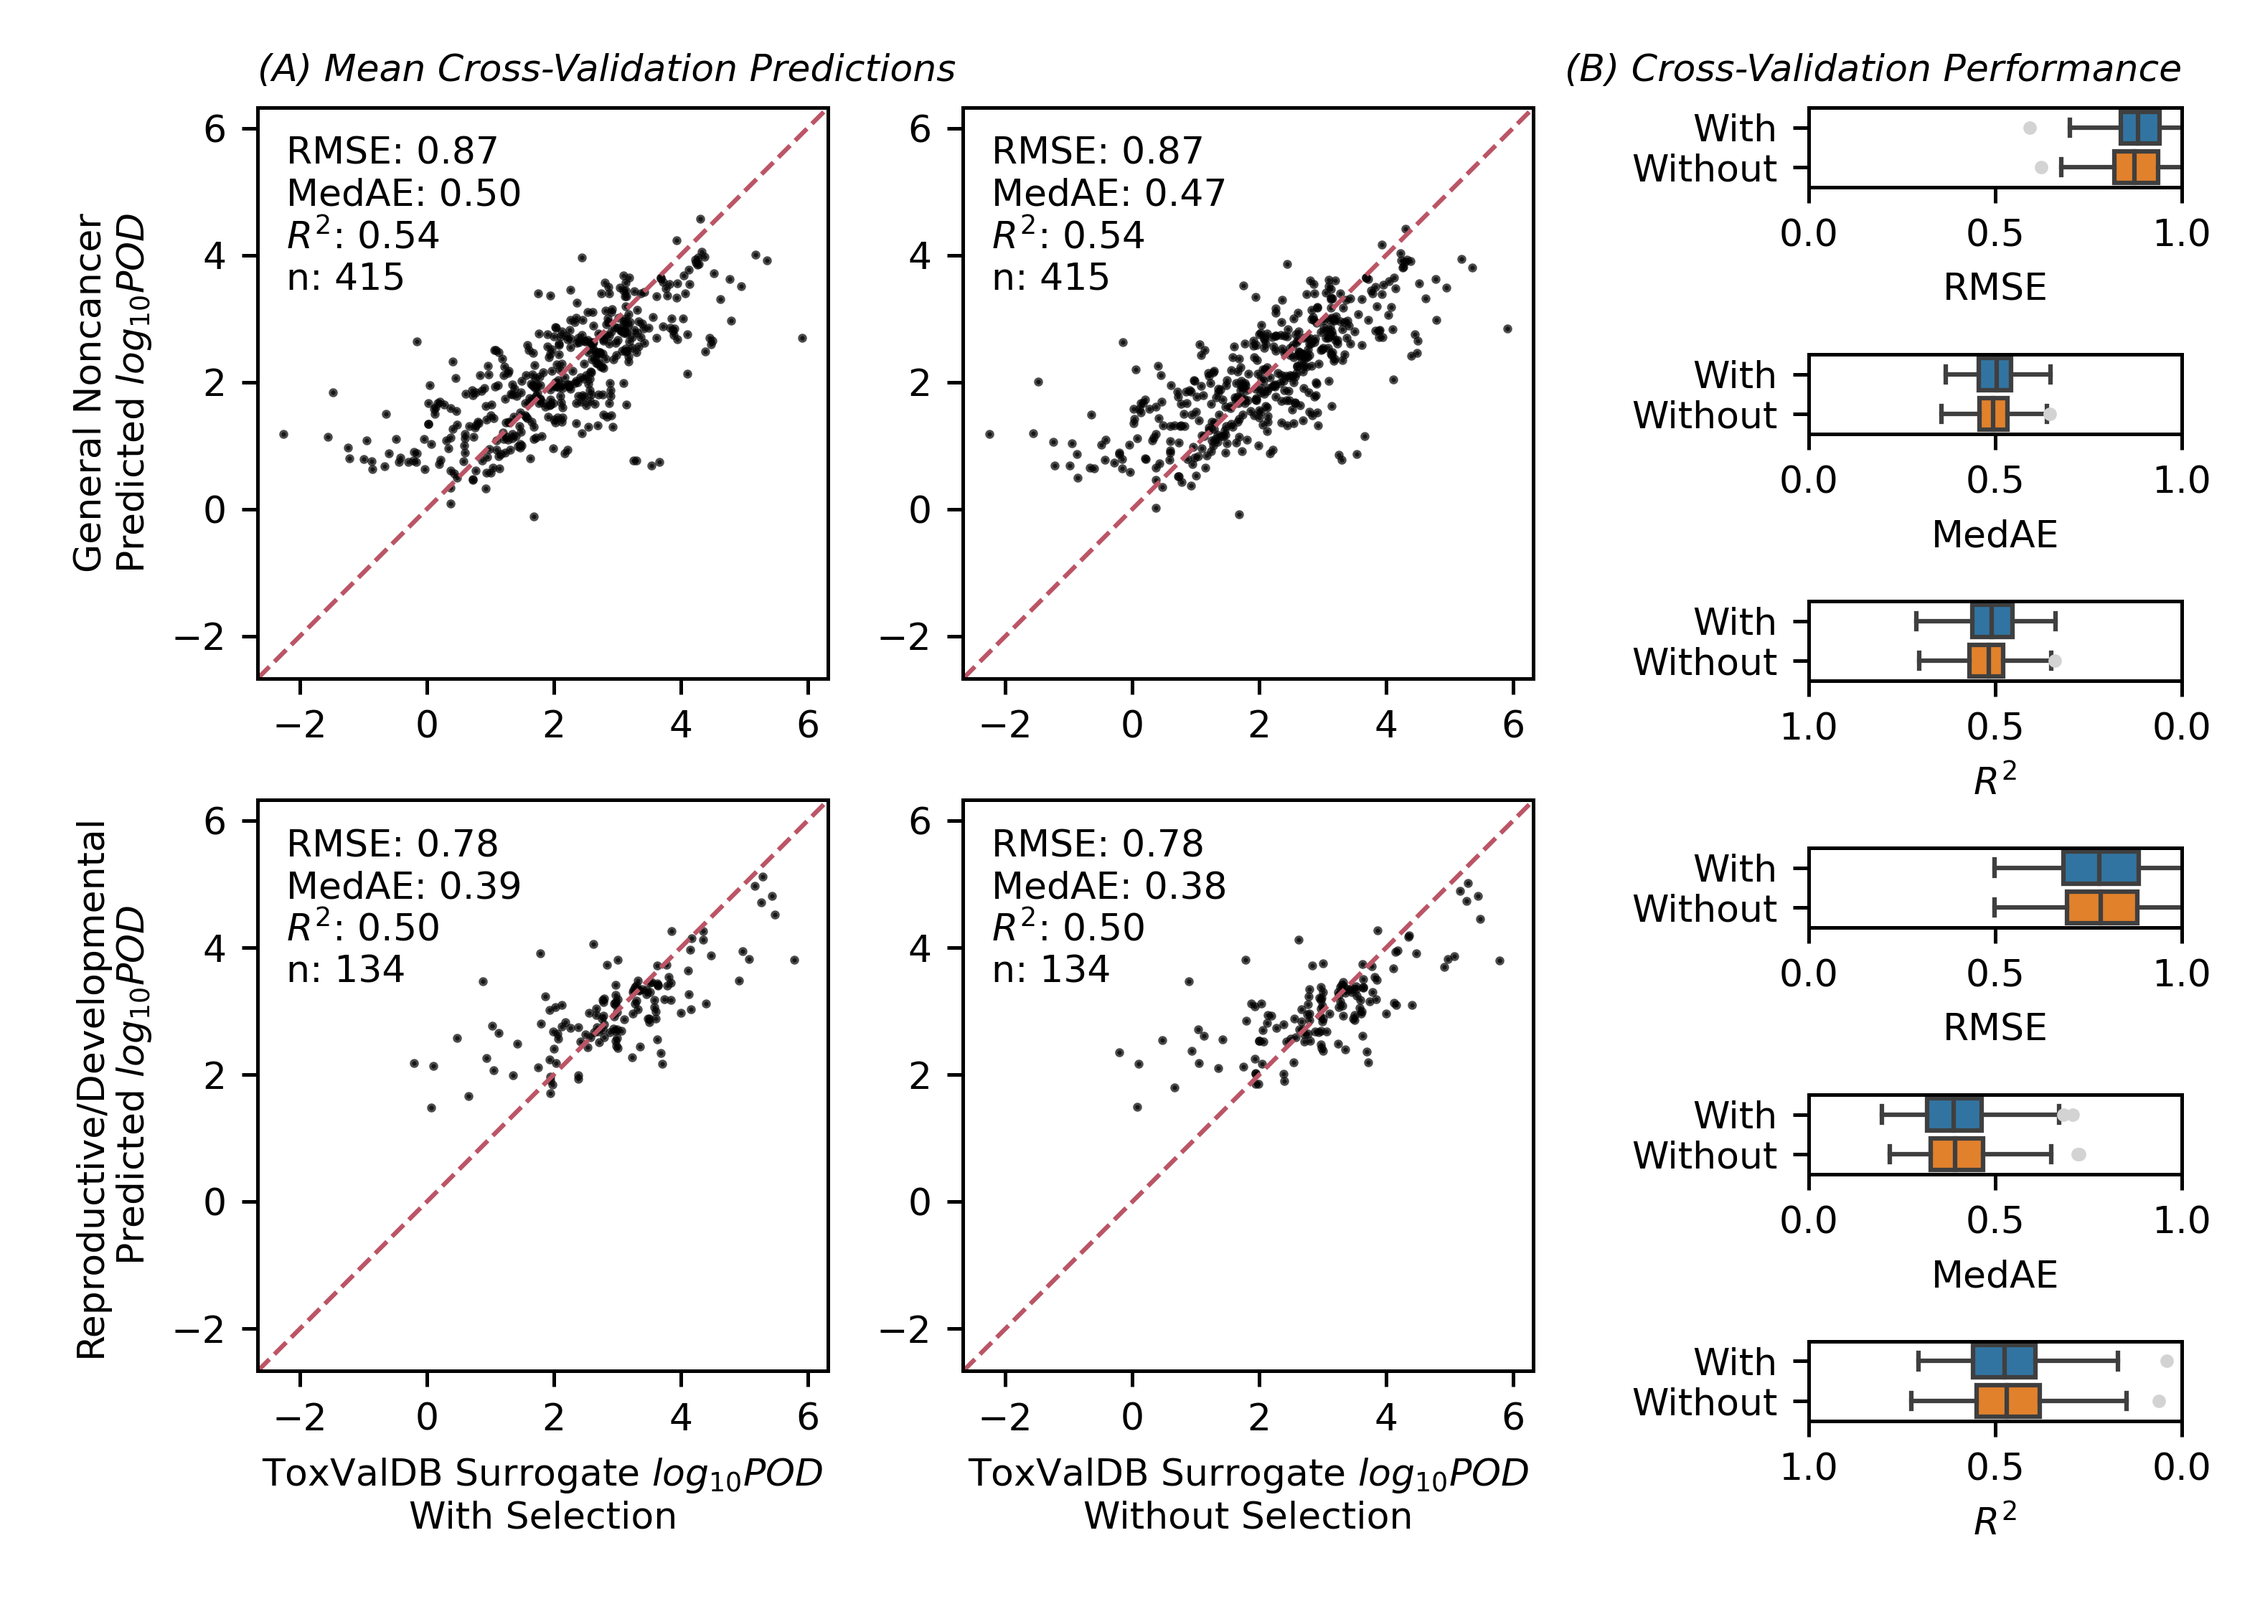
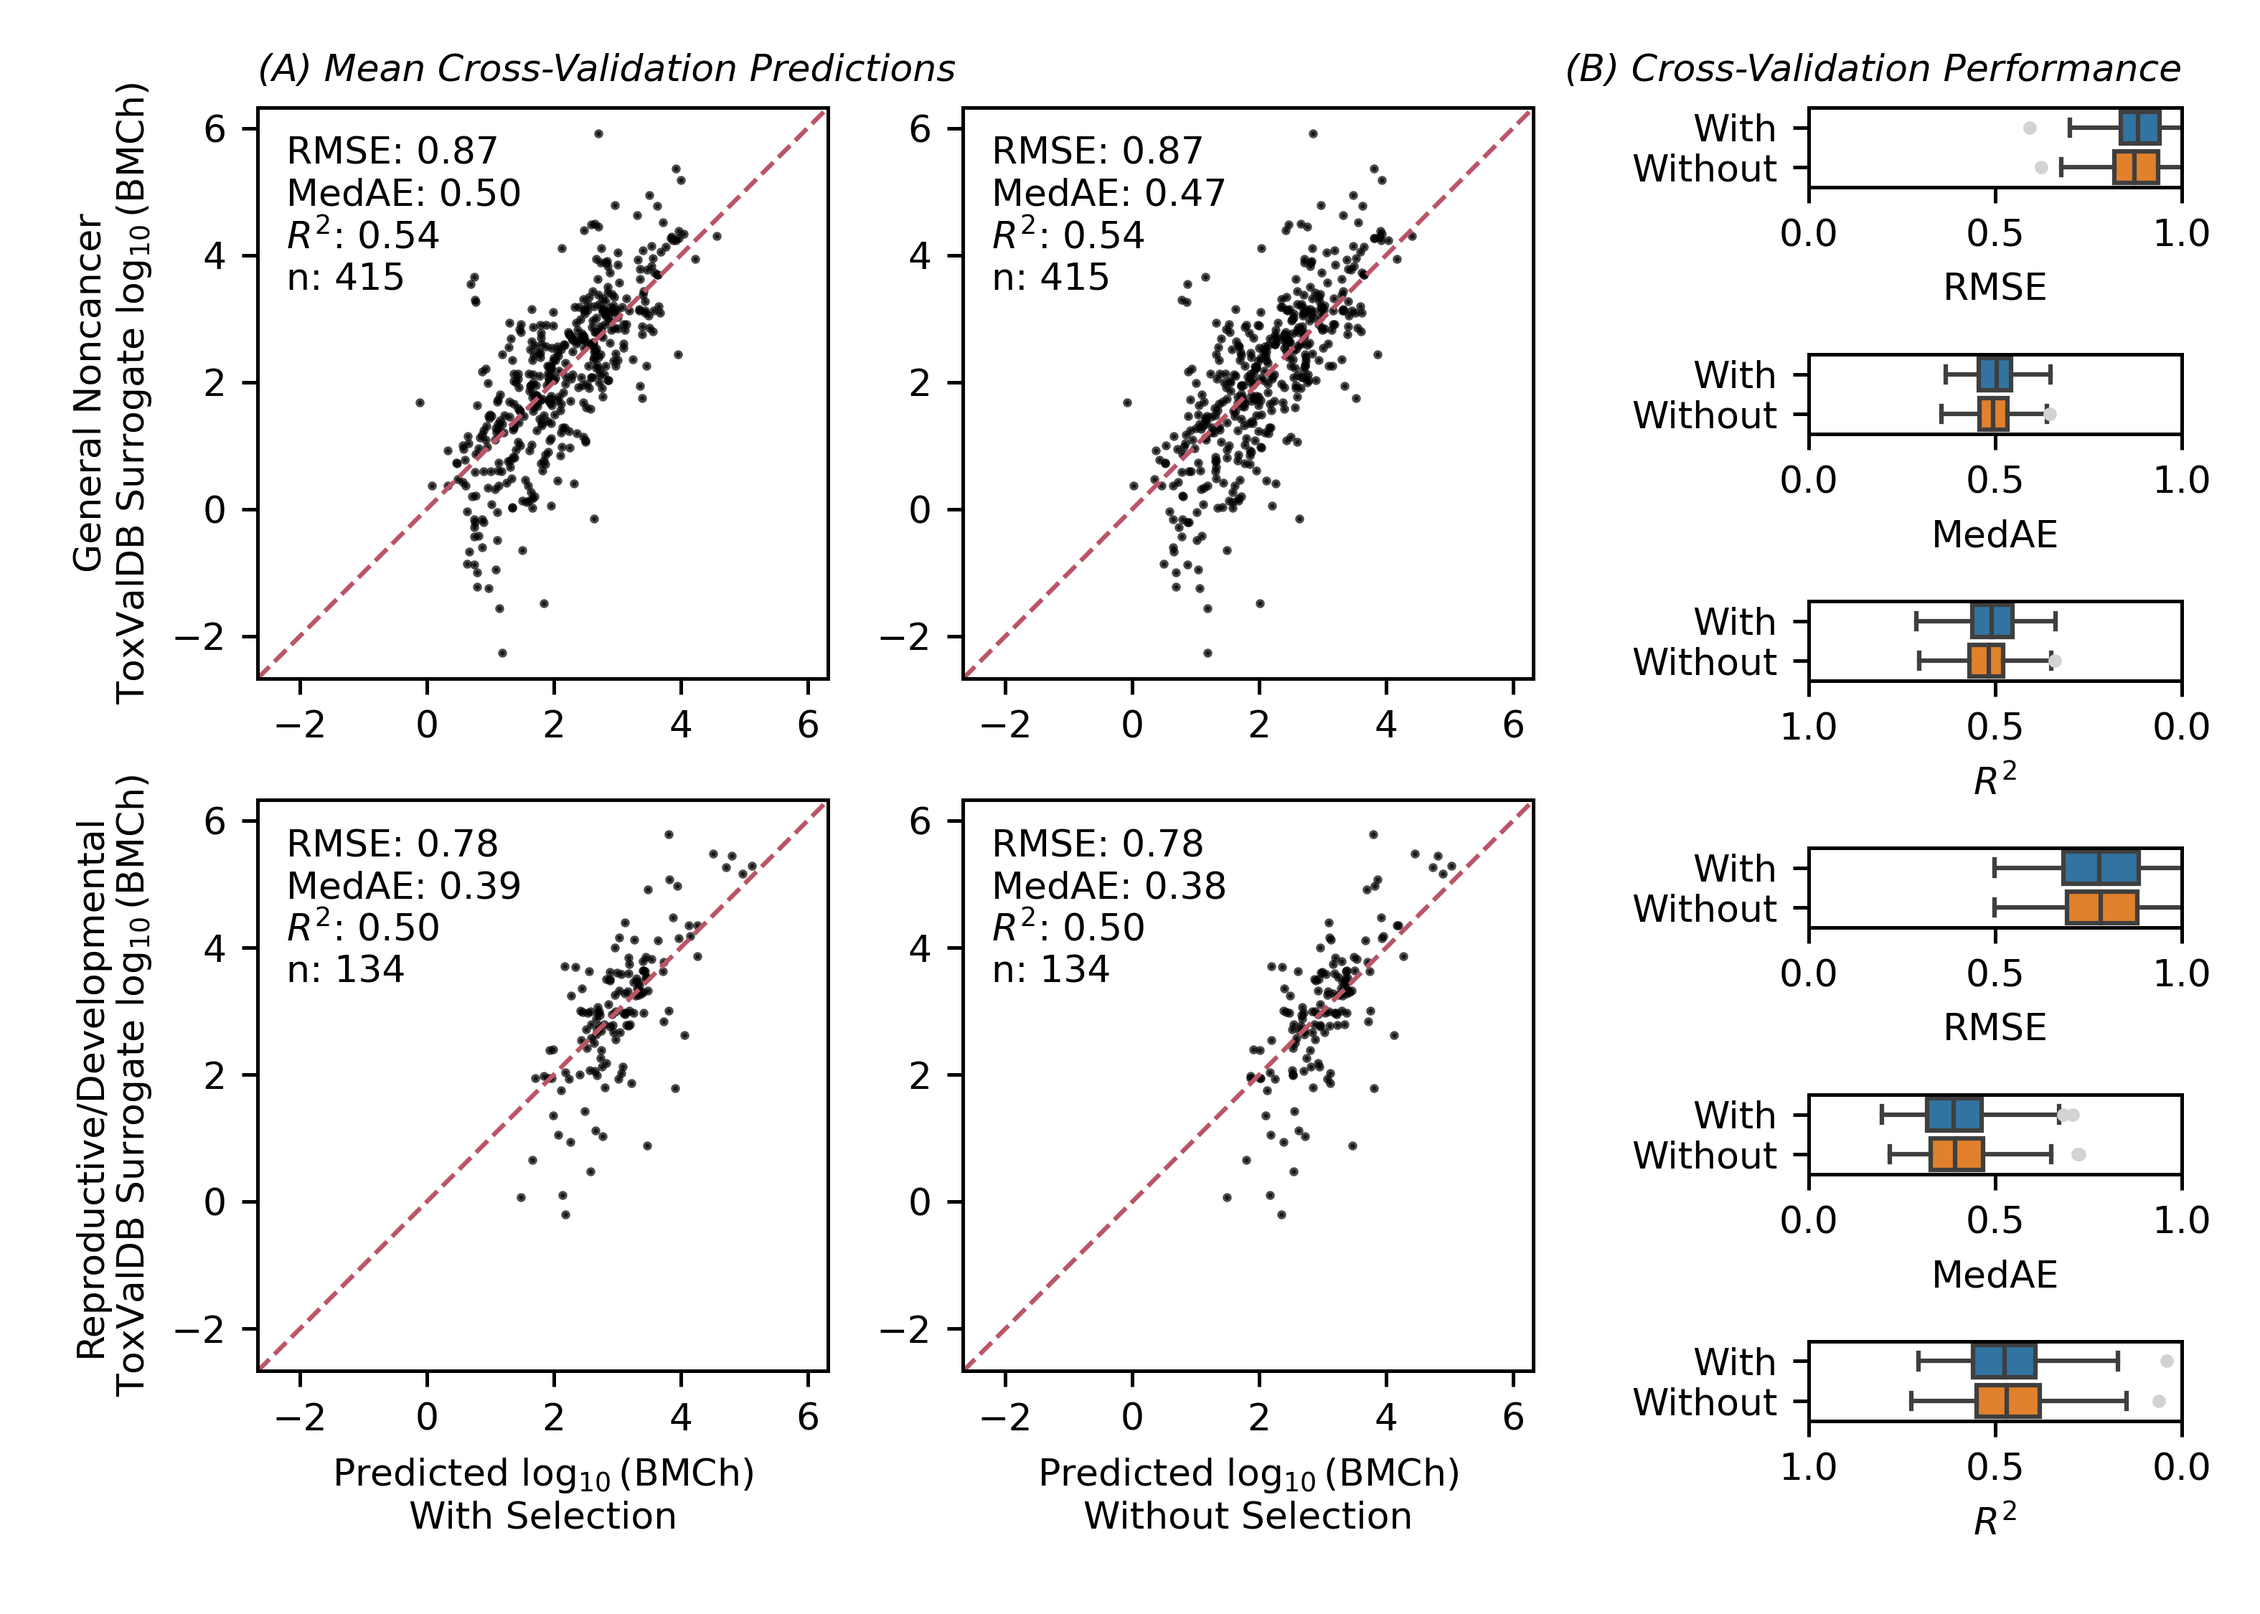
Update inhalation held-out scatterplot code and figure

diff --git a/plotting/model_performance.py b/plotting/model_performance.py
@@ -227,6 +227,13 @@ def _performance_scatterplots(
         result_function = 'get_in_sample_prediction'
         result_type = 'Fitted'       
 
+    prediction_on_x = not in_sample and getattr(
+        plot_settings, 'out_sample_prediction_on_x', False)
+    prediction_label = getattr(
+        plot_settings, 'out_sample_prediction_label',
+        plot_settings.prediction_label) if prediction_on_x else (
+            plot_settings.prediction_label)
+
     all_axs = []
     # Initialize the limits.
     xmin, xmax = np.inf, -np.inf
@@ -249,10 +256,14 @@ def _performance_scatterplots(
             xlabel, ylabel = '', ''
             if i == len(grouped_keys_inner) - 1:
                 select_features = plot_settings.label_for_select_features[key_for['select_features']]
-                xlabel = f'{plot_settings.surrogate_label} {plot_settings.prediction_label}\n{select_features}'
+                x_source = result_type if prediction_on_x else (
+                    plot_settings.surrogate_label)
+                xlabel = f'{x_source} {prediction_label}\n{select_features}'
             if j == 0:
                 effect = plot_settings.label_for_effect[key_for['target_effect']]
-                ylabel = f'{effect}\n{result_type} {plot_settings.prediction_label}'
+                y_source = plot_settings.surrogate_label if (
+                    prediction_on_x) else result_type
+                ylabel = f'{effect}\n{y_source} {prediction_label}'
                 if i == 0:
                     ax.set_title(title, loc='left', size='small', style='italic')
             ax.set_xlabel(xlabel, size='small')
@@ -265,12 +276,16 @@ def _performance_scatterplots(
                 function_for_metric, 
                 plot_settings.label_for_metric,
                 color='black',
-                size=plot_settings.marker_size_for_sample_type['out']
+                size=plot_settings.marker_size_for_sample_type['out'],
+                prediction_on_x=prediction_on_x,
             )
 
             # Update the limits for the one-one line.
-            xmin = min(xmin, *ax.get_xlim())
-            xmax = max(xmax, *ax.get_xlim())
+            limits = ax.get_xlim()
+            if prediction_on_x:
+                limits += ax.get_ylim()
+            xmin = min(xmin, *limits)
+            xmax = max(xmax, *limits)
 
             ax.tick_params(axis='both', labelsize='small')
 

diff --git a/plotting/utilities.py b/plotting/utilities.py
@@ -148,7 +148,8 @@ def generate_scatterplot(
         highlight_label='Highlight', 
         title='', 
         xlabel='', 
-        ylabel=''
+        ylabel='',
+        prediction_on_x=False,
     ):
     '''
     Generate a scatterplot comparing two sets of data.
@@ -175,6 +176,8 @@ def generate_scatterplot(
         The label for the x-axis.
     ylabel : str
         The label for the y-axis.
+    prediction_on_x : bool, optional
+        Plot predictions on x while retaining y_true as the metric reference.
     '''
 
     chem_intersection = y_true.index.intersection(y_pred.index)
@@ -189,16 +192,16 @@ def generate_scatterplot(
         y_pred_rest = y_pred.drop(highlight_indices)
         
         ax.scatter(
-            y_true_rest, 
-            y_pred_rest, 
+            y_pred_rest if prediction_on_x else y_true_rest,
+            y_true_rest if prediction_on_x else y_pred_rest,
             alpha=alpha, 
             s=main_size,
             color=color,
             label=main_label
             )
         ax.scatter(
-            y_true_highlight, 
-            y_pred_highlight, 
+            y_pred_highlight if prediction_on_x else y_true_highlight,
+            y_true_highlight if prediction_on_x else y_pred_highlight,
             alpha=alpha, 
             s=highlight_size,
             color=highlight_color,
@@ -214,8 +217,8 @@ def generate_scatterplot(
     else:
 
         ax.scatter(
-            y_true, 
-            y_pred, 
+            y_pred if prediction_on_x else y_true,
+            y_true if prediction_on_x else y_pred,
             alpha=alpha, 
             color=color,
             s=size
